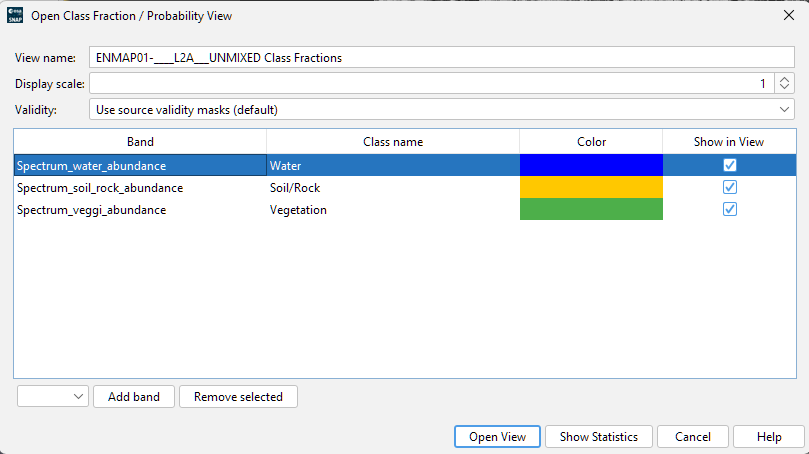
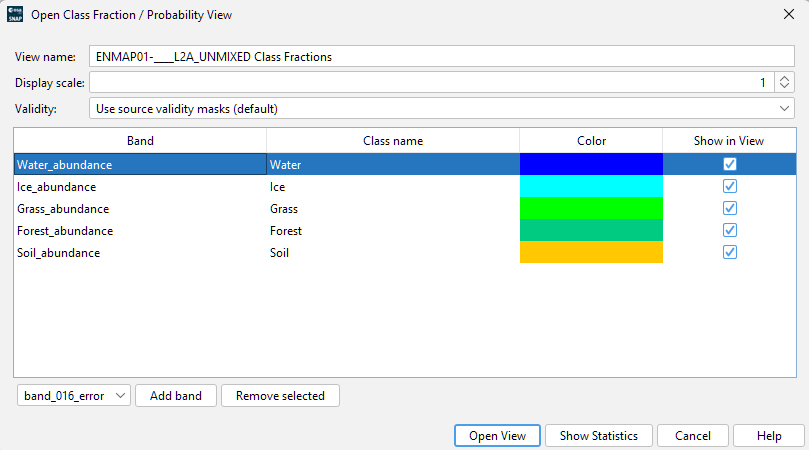
refactorings for review comments

diff --git a/snap-ui/src/main/java/org/esa/snap/ui/classfraction/ClassFractionStatisticsDialog.java b/snap-ui/src/main/java/org/esa/snap/ui/classfraction/ClassFractionStatisticsDialog.java
@@ -1,8 +1,10 @@
 package org.esa.snap.ui.classfraction;
 
 import com.bc.ceres.core.ProgressMonitor;
+import eu.esa.snap.core.renderer.classfraction.ClassFractionBandStatistics;
 import eu.esa.snap.core.renderer.classfraction.ClassFractionStatistics;
 import eu.esa.snap.core.renderer.classfraction.ClassFractionStatisticsResult;
+import eu.esa.snap.core.renderer.classfraction.ClassFractionValueDistribution;
 import org.esa.snap.core.datamodel.Mask;
 import org.esa.snap.ui.help.HelpDisplayer;
 
@@ -206,7 +208,7 @@ public final class ClassFractionStatisticsDialog extends JDialog {
         csv.append('\n');
         csv.append("Class,Source band,Valid pixels,Minimum,Maximum,Mean,Std. deviation,P05,P25,Median,P75,P95\n");
 
-        for (ClassFractionStatisticsResult.BandStatistics statistics : result.getBandStatistics()) {
+        for (ClassFractionBandStatistics statistics : result.getBandStatistics()) {
             appendCsvRow(csv, statistics.getClassBand().getDisplayName(), statistics.getClassBand().getBandName(),
                     Long.toString(statistics.getValidPixelCount()), Double.toString(statistics.getMinimum()),
                     Double.toString(statistics.getMaximum()), Double.toString(statistics.getMean()),
@@ -217,8 +219,8 @@ public final class ClassFractionStatisticsDialog extends JDialog {
         csv.append('\n');
         csv.append("Class,Histogram bin minimum,Histogram bin maximum,Pixel count\n");
 
-        for (ClassFractionStatisticsResult.BandStatistics statistics : result.getBandStatistics()) {
-            ClassFractionStatisticsResult.ValueDistribution distribution = statistics.getDistribution();
+        for (ClassFractionBandStatistics statistics : result.getBandStatistics()) {
+            ClassFractionValueDistribution distribution = statistics.getDistribution();
             for (int i = 0; i < distribution.getBinCount(); i++) {
                 appendCsvRow(csv, statistics.getClassBand().getDisplayName(),
                         Double.toString(distribution.getBinMinimum(i)), Double.toString(distribution.getBinMaximum(i)),
@@ -246,14 +248,14 @@ public final class ClassFractionStatisticsDialog extends JDialog {
     private static final class StatisticsTableModel extends AbstractTableModel {
 
         private static final String[] COLUMNS = {"Class", "Valid pixels", "Minimum", "Maximum", "Mean", "Std. deviation", "P05", "P25", "Median", "P75", "P95"};
-        private List<ClassFractionStatisticsResult.BandStatistics> rows = Collections.emptyList();
+        private List<ClassFractionBandStatistics> rows = Collections.emptyList();
 
         void setResult(ClassFractionStatisticsResult result) {
             rows = result.getBandStatistics();
             fireTableDataChanged();
         }
 
-        ClassFractionStatisticsResult.BandStatistics getRow(int row) {
+        ClassFractionBandStatistics getRow(int row) {
             return row >= 0 && row < rows.size() ? rows.get(row) : null;
         }
 
@@ -272,7 +274,7 @@ public final class ClassFractionStatisticsDialog extends JDialog {
 
         @Override
         public Object getValueAt(int row, int column) {
-            ClassFractionStatisticsResult.BandStatistics statistics = rows.get(row);
+            ClassFractionBandStatistics statistics = rows.get(row);
             return switch (column) {
                 case 0 -> statistics.getClassBand().getDisplayName();
                 case 1 -> statistics.getValidPixelCount();
@@ -292,7 +294,7 @@ public final class ClassFractionStatisticsDialog extends JDialog {
 
     private static final class HistogramPanel extends JPanel {
 
-        private ClassFractionStatisticsResult.BandStatistics statistics;
+        private ClassFractionBandStatistics statistics;
 
         private HistogramPanel() {
             setPreferredSize(new Dimension(900, 210));
@@ -300,7 +302,7 @@ public final class ClassFractionStatisticsDialog extends JDialog {
             setBorder(BorderFactory.createTitledBorder("Histogram"));
         }
 
-        void setStatistics(ClassFractionStatisticsResult.BandStatistics statistics) {
+        void setStatistics(ClassFractionBandStatistics statistics) {
             this.statistics = statistics;
             repaint();
         }
@@ -325,7 +327,7 @@ public final class ClassFractionStatisticsDialog extends JDialog {
                     return;
                 }
 
-                ClassFractionStatisticsResult.ValueDistribution distribution = statistics.getDistribution();
+                ClassFractionValueDistribution distribution = statistics.getDistribution();
                 long maximumCount = 0;
                 for (long count : distribution.getBinCounts()) {
                     maximumCount = Math.max(maximumCount, count);
